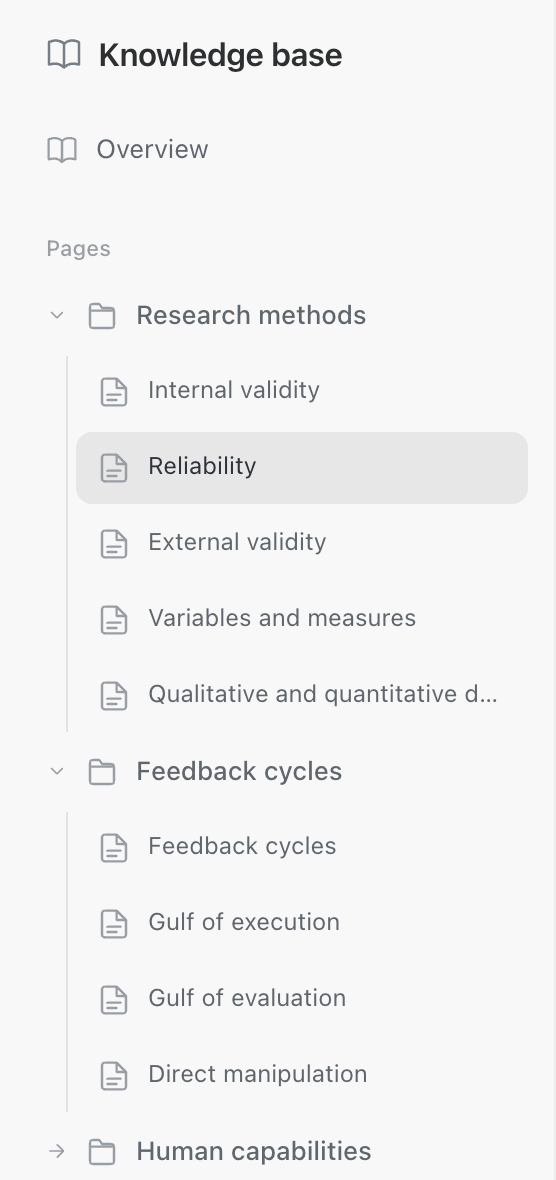
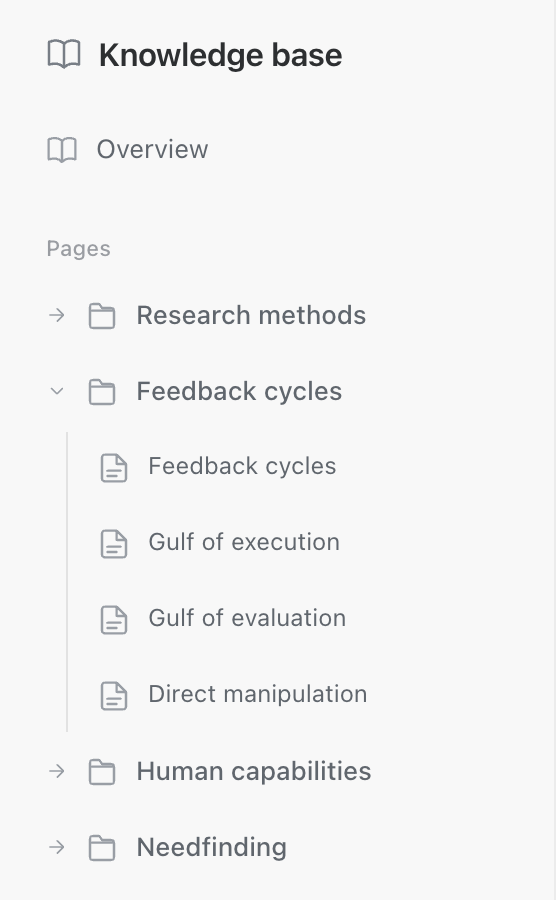
Make navigation screenshots more compact

diff --git a/README.md b/README.md
@@ -18,7 +18,7 @@ The current-workflow view follows the supplied screenshot: chat sessions grouped
 
 ## Navigation close-ups
 
-Cropped screenshots of the proposed navigation panels, captured from the public prototype at the same task step: Reliability opened after Internal validity. Each crop is 278 × 590 CSS pixels, captured at 2× resolution (556 × 1180 PNG).
+Cropped screenshots of the proposed navigation panels, captured from the public prototype at the same task step: Reliability opened after Internal validity. All crops are 278 CSS pixels wide and captured at 2× resolution. The compact PNG sizes are A: 556 × 900, B: 556 × 1064, and C: 556 × 988. Research methods is collapsed in A; each image ends after a complete row.
 
 - [Option A — Page tree](screenshots/option-a-page-tree.png)
 - [Option B — Topics](screenshots/option-b-topics.png)
